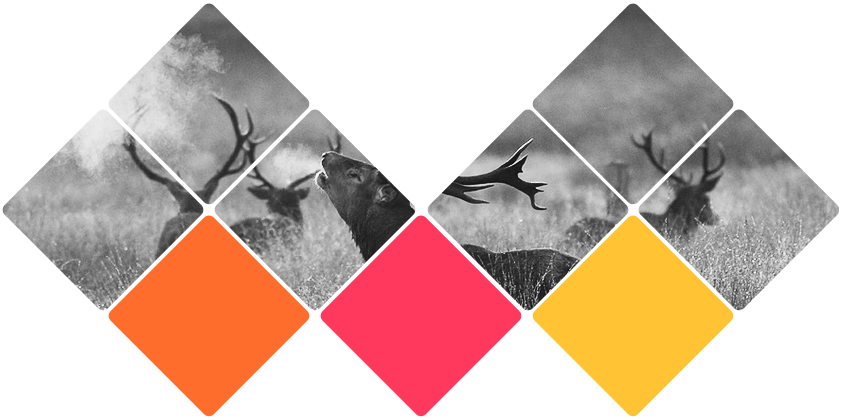
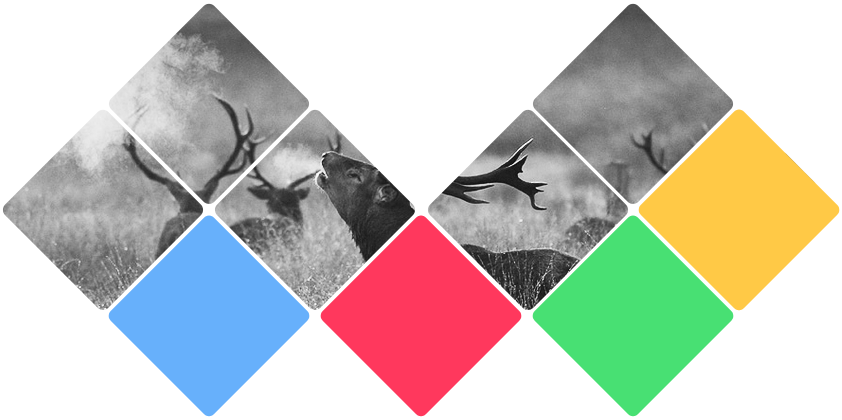
'add'

Changed region(s): [[0.6176, 0.2476, 1.0, 0.9905], [0.1235, 0.4952, 0.3705, 0.9905]]

diff --git a/public/css/widget/square/square.css b/public/css/widget/square/square.css
@@ -1,1 +1,1 @@
-.m-home_square{position:relative;width:844px;height:464px;margin:40px auto}.m-home_square .u-logo{width:158px;height:116px;margin:0 auto;background:url(../../../images/home_logo.png) no-repeat center center}.m-home_square .u-squares{position:absolute;width:844px;height:417px;display:table;left:0;top:40px;background:url(../../../images/square.png) no-repeat left top}.m-home_square .u-squares .u-square_item{position:absolute;width:147px;display:table-cell;vertical-align:middle;height:146px;border-radius:6px;transform:rotate(45deg);-webkit-transform:rotate(45deg);-moz-transform:rotate(45deg);-ms-transform:rotate(45deg);-webkit-transition:background 1s;-moz-transition:background 1s;-ms-transition:background 1s}.m-home_square .u-squares .u-square_item .s-wrap{display:block;width:100%;height:100%;background:rgba(0,0,0,.5);border-radius:6px;transition:background 1s}.m-home_square .u-squares .u-square_item a{text-decoration:none}.m-home_square .u-squares .u-square_item:hover{background:rgba(0,0,0,1)}.m-home_square .u-squares .u-square_item .u-title{transform:rotate(-45deg);-webkit-transform:rotate(-45deg);-moz-transform:rotate(-45deg);-ms-transform:rotate(-45deg);width:100%;position:absolute;top:55px;text-align:center}.m-home_square .u-squares .u-square_item span,.m-home_square .u-squares .u-square_item a{display:block;line-height:16px;color:#fff;font-size:16px;font-family:"microsoft yahei";cursor:pointer}.m-home_square .u-squares .u-square_item:nth-child(1){left:30px;top:136px}.m-home_square .u-squares .u-square_item:nth-child(2){left:134px;top:31px}.m-home_square .u-squares .u-square_item:nth-child(3){left:242px;top:138px}.m-home_square .u-squares .u-square_item:nth-child(4){left:454px;top:138px}.m-home_square .u-squares .u-square_item:nth-child(5){left:559px;top:31px}.m-home_square .u-squares .u-square_item:nth-child(6){right:31px;top:136px}.m-home_square .u-squares .u-square_item:nth-child(7){left:348px;top:243px}.m-home_square .u-squares .u-square_item:nth-child(7) a{background:0}.m-home_square .u-squares .u-square_item:nth-child(7) .u-title{top:67px}
+.m-home_square{position:relative;width:844px;height:464px;margin:40px auto}.m-home_square .u-logo{width:158px;height:116px;margin:0 auto;background:url(../../../images/home_logo.png) no-repeat center center}.m-home_square .u-squares{position:absolute;width:844px;height:417px;display:table;left:0;top:40px;background:url(../../../images/square.png) no-repeat left top}.m-home_square .u-squares .u-square_item{position:absolute;width:147px;display:table-cell;vertical-align:middle;height:146px;border-radius:6px;transform:rotate(45deg);-webkit-transform:rotate(45deg);-moz-transform:rotate(45deg);-ms-transform:rotate(45deg);-webkit-transition:background 1s;-moz-transition:background 1s;-ms-transition:background 1s}.m-home_square .u-squares .u-square_item .s-wrap{display:block;width:100%;height:100%;background:rgba(0,0,0,.5);border-radius:6px;transition:background 1s}.m-home_square .u-squares .u-square_item a{text-decoration:none}.m-home_square .u-squares .u-square_item:hover{background:rgba(0,0,0,1)}.m-home_square .u-squares .u-square_item .u-title{transform:rotate(-45deg);-webkit-transform:rotate(-45deg);-moz-transform:rotate(-45deg);-ms-transform:rotate(-45deg);width:100%;position:absolute;top:55px;text-align:center}.m-home_square .u-squares .u-square_item span,.m-home_square .u-squares .u-square_item a{display:block;line-height:16px;color:#fff;font-size:16px;font-family:"microsoft yahei";cursor:pointer}.m-home_square .u-squares .u-square_item:nth-child(1){left:30px;top:136px}.m-home_square .u-squares .u-square_item:nth-child(2){left:134px;top:31px}.m-home_square .u-squares .u-square_item:nth-child(3){left:242px;top:138px}.m-home_square .u-squares .u-square_item:nth-child(4){left:454px;top:138px}.m-home_square .u-squares .u-square_item:nth-child(5){left:559px;top:31px}.m-home_square .u-squares .u-square_item:nth-child(6){left:348px;top:243px}.m-home_square .u-squares .u-square_item:nth-child(6) a{background:0}.m-home_square .u-squares .u-square_item:nth-child(6) .u-title{top:67px}

diff --git a/public/js/template/photos/photos.js b/public/js/template/photos/photos.js
@@ -1,1 +1,37 @@
-require.config({baseUrl:"public/js/lib",shim:{slim_box:["jquery"],waterfall:["jquery"]},paths:{jquery:"jquery",port:"../template/photos/port",photos_list:"../widget/photos_list/photos_list",go_top:"../widget/go_top/go_top",load_img:"../widget/photos_list/load_img",underscore:"underscore",login_box:"../widget/login-register-case/login-register-case",slim_box:"../widget/photos_list/slimBox",waterfall:"../widget/photos_list/jquery.waterfall",praise:"../widget/js_widget/praise"}}),define(["photos_list","go_top","load_img","login_box","praise"],function(){function A(){$(".js-login_box").css("display","block")}function B(){$(".js-login_box").css("display","none")}console.log("photos init"),$(".js-open_login_box").on("click",A),$(".js-close_login_box, .js-login_box").on("click",B)});
+/**
+ * Created by redrock on 2015/2/1.
+ */
+//配置require.config
+require.config({
+    baseUrl: "../public/js/lib",
+    shim: {
+        slim_box: [ "jquery" ],
+        waterfall: [ "jquery" ]
+    },
+    paths: {
+        jquery: "jquery",
+        port: "../template/photos/port",
+        photos_list: "../widget/photos_list/photos_list",
+        go_top: "../widget/go_top/go_top",
+        load_img: "../widget/photos_list/load_img",
+        underscore: "underscore",
+        login_box: "../widget/login-register-case/login-register-case",
+        slim_box: "../widget/photos_list/slimBox",
+        waterfall: "../widget/photos_list/jquery.waterfall",
+        praise: "../widget/js_widget/praise",
+        footer: "../widget/footer/footer"
+    }
+}), //加载依赖项
+define([ "photos_list", "go_top", "load_img", "login_box", "praise", "footer" ], function() {
+    //关闭登陆框
+    /*----------------------事件处理函数--------------------*/
+    function openBox() {
+        $(".js-login_box").css("display", "block");
+    }
+    function closeBox() {
+        $(".js-login_box").css("display", "none");
+    }
+    console.log("photos init"), /*----------------------打开与关闭登陆框-----------------*/
+    $(".js-open_login_box").on("click", openBox), //打开登陆框
+    $(".js-close_login_box, .js-login_box").on("click", closeBox);
+});

diff --git a/public/js/template/litera_sub/litera_sub.js b/public/js/template/litera_sub/litera_sub.js
@@ -1,1 +1,31 @@
-require.config({baseUrl:"public/js/lib",shim:{underscore:{exports:"_"},bdshare:["share"]},paths:{jquery:"jquery",port:"../template/litera_sub/port",litera_content:"../widget/litera_content/litera_content",litera_comment:"../widget/litera_comment/litera_comment",go_top:"../widget/go_top/go_top",bdshare:"../widget/bdshare/bdshare",share:"../widget/bdshare/share",comment:"../widget/comment/comment",stop_copy:"../widget/js_widget/stopCopy"}}),define(["jquery","litera_content","litera_comment","go_top","share","bdshare","comment","stop_copy"],function(A){A(function(){A(".js-open_login_box").on("click",function(){location.href="/login-register"})})});
+/**
+ * Created by redrock on 2015/1/31.
+ */
+require.config({
+    baseUrl: "public/js/lib",
+    shim: {
+        underscore: {
+            exports: "_"
+        },
+        bdshare: [ "share" ]
+    },
+    paths: {
+        jquery: "jquery",
+        port: "../template/litera_sub/port",
+        litera_content: "../widget/litera_content/litera_content",
+        litera_comment: "../widget/litera_comment/litera_comment",
+        go_top: "../widget/go_top/go_top",
+        bdshare: "../widget/bdshare/bdshare",
+        share: "../widget/bdshare/share",
+        comment: "../widget/comment/comment",
+        stop_copy: "../widget/js_widget/stopCopy",
+        footer: "../widget/footer/footer"
+    }
+}), //加载依赖项
+define([ "jquery", "litera_content", "litera_comment", "go_top", "share", "bdshare", "comment", "stop_copy", "footer" ], function($) {
+    $(function() {
+        $(".js-open_login_box").on("click", function() {
+            location.href = "/login-register";
+        });
+    });
+});

diff --git a/public/js/template/microm_sub/microm_sub.js b/public/js/template/microm_sub/microm_sub.js
@@ -1,1 +1,28 @@
-require.config({baseUrl:"public/js/lib",shim:{underscore:{exports:"_"},bdshare:["share"]},paths:{jquery:"jquery",port:"../template/microm_sub/port",microm_play:"../widget/microm_play/microm_play",microm_comment:"../widget/microm_comment/microm_comment",go_top:"../widget/go_top/go_top",login_box:"../widget/login_box/login_box",microm_intro:"../widget/microm_intro/microm_intro",bdshare:"../widget/bdshare/bdshare",share:"../widget/bdshare/share",comment:"../widget/comment/comment"}}),define(["microm_play","microm_comment","go_top","login_box","microm_intro","share","bdshare","comment"],function(){console.log("microm_sub init")});
+/**
+ * Created by redrock on 2015/1/31.
+ */
+require.config({
+    baseUrl: "public/js/lib",
+    shim: {
+        underscore: {
+            exports: "_"
+        },
+        bdshare: [ "share" ]
+    },
+    paths: {
+        jquery: "jquery",
+        port: "../template/microm_sub/port",
+        microm_play: "../widget/microm_play/microm_play",
+        microm_comment: "../widget/microm_comment/microm_comment",
+        go_top: "../widget/go_top/go_top",
+        login_box: "../widget/login_box/login_box",
+        microm_intro: "../widget/microm_intro/microm_intro",
+        bdshare: "../widget/bdshare/bdshare",
+        share: "../widget/bdshare/share",
+        comment: "../widget/comment/comment",
+        footer: "../widget/footer/footer"
+    }
+}), //加载依赖项
+define([ "microm_play", "microm_comment", "go_top", "login_box", "microm_intro", "share", "bdshare", "comment", "footer" ], function() {
+    console.log("microm_sub init");
+});

diff --git a/public/js/template/literatrue/literatrue.js b/public/js/template/literatrue/literatrue.js
@@ -1,1 +1,32 @@
-require.config({baseUrl:"public/js/lib",shim:{underscore:{exports:"_"},"jquery.sliderBox":["jquery"]},paths:{jquery:"jquery",port:"../template/literatrue/port",litera_list:"../widget/litera_list/litera_list",go_top:"../widget/go_top/go_top","jquery.sliderBox":"./jquery.sliderBox",slider:"../widget/litera_recom_slider/litera_recom_slider",praise:"../widget/js_widget/praise",stop_copy:"../widget/js_widget/stopCopy"}}),define(["jquery","litera_list","go_top","slider","praise","stop_copy"],function(A){A(function(){A(".js-open_login_box").on("click",function(){location.href="/login-register"})})});
+/**
+ * Created by redrock on 2015/1/31.
+ */
+//配置require.config
+require.config({
+    baseUrl: "public/js/lib",
+    shim: {
+        underscore: {
+            exports: "_"
+        },
+        "jquery.sliderBox": [ "jquery" ]
+    },
+    paths: {
+        jquery: "jquery",
+        port: "../template/literatrue/port",
+        litera_list: "../widget/litera_list/litera_list",
+        go_top: "../widget/go_top/go_top",
+        "jquery.sliderBox": "./jquery.sliderBox",
+        slider: "../widget/litera_recom_slider/litera_recom_slider",
+        praise: "../widget/js_widget/praise",
+        //收藏
+        stop_copy: "../widget/js_widget/stopCopy",
+        footer: "../widget/footer/footer"
+    }
+}), //加载依赖项
+define([ "jquery", "litera_list", "go_top", "slider", "praise", "stop_copy", "footer" ], function($) {
+    $(function() {
+        $(".js-open_login_box").on("click", function() {
+            location.href = "/login-register";
+        });
+    });
+});

diff --git a/public/js/template/bkmv_sub/bkmv_sub.js b/public/js/template/bkmv_sub/bkmv_sub.js
@@ -1,1 +1,30 @@
-require.config({baseUrl:"public/js/lib",shim:{underscore:{exports:"_"},bdshare:["share"]},paths:{jquery:"jquery",port:"../template/bkmv_sub/port",bkmv_sub_comment:"../widget/bkmv_sub_comment/bkmv_sub_comment",go_top:"../widget/go_top/go_top",bdshare:"../widget/bdshare/bdshare",share:"../widget/bdshare/share",comment:"../widget/comment/comment"}}),define(["jquery","bkmv_sub_comment","go_top","share","bdshare","comment"],function(A){A(function(){A(".js-open_login_box").on("click",function(){location.href="/login-register"})})});
+/**
+ * Created by redrock on 2015/2/14.
+ */
+//配置require.config
+require.config({
+    baseUrl: "public/js/lib",
+    shim: {
+        underscore: {
+            exports: "_"
+        },
+        bdshare: [ "share" ]
+    },
+    paths: {
+        jquery: "jquery",
+        port: "../template/bkmv_sub/port",
+        bkmv_sub_comment: "../widget/bkmv_sub_comment/bkmv_sub_comment",
+        go_top: "../widget/go_top/go_top",
+        bdshare: "../widget/bdshare/bdshare",
+        share: "../widget/bdshare/share",
+        comment: "../widget/comment/comment",
+        footer: "../widget/footer/footer"
+    }
+}), //加载依赖项
+define([ "jquery", "bkmv_sub_comment", "go_top", "share", "bdshare", "comment", "footer" ], function($) {
+    $(function() {
+        $(".js-open_login_box").on("click", function() {
+            location.href = "/login-register";
+        });
+    });
+});

diff --git a/public/js/template/micromovie/micromovie.js b/public/js/template/micromovie/micromovie.js
@@ -1,1 +1,29 @@
-require.config({baseUrl:"public/js/lib",shim:{underscore:{exports:"_"}},paths:{jquery:"jquery",port:"../template/micromovie/port",microm_list:"../widget/microm_list/microm_list",microm_topic:"../widget/microm_topic/microm_topic",go_top:"../widget/go_top/go_top",praise:"../widget/js_widget/praise"}}),define(["jquery","microm_list","go_top","praise"],function(A){console.log("literatrue init"),A(function(){A(".js-open_login_box").on("click",function(){location.href="/login-register"})})});
+/**
+ * Created by redrock on 2015/1/31.
+ */
+//配置require.config
+require.config({
+    baseUrl: "public/js/lib",
+    shim: {
+        underscore: {
+            exports: "_"
+        }
+    },
+    paths: {
+        jquery: "jquery",
+        port: "../template/micromovie/port",
+        microm_list: "../widget/microm_list/microm_list",
+        microm_topic: "../widget/microm_topic/microm_topic",
+        go_top: "../widget/go_top/go_top",
+        praise: "../widget/js_widget/praise",
+        //点赞
+        footer: "../widget/footer/footer"
+    }
+}), //加载依赖项
+define([ "jquery", "microm_list", "go_top", "praise", "footer" ], function($) {
+    console.log("literatrue init"), $(function() {
+        $(".js-open_login_box").on("click", function() {
+            location.href = "/login-register";
+        });
+    });
+});

diff --git a/app/views/widget/square/square.css b/app/views/widget/square/square.css
@@ -93,18 +93,22 @@
     top: 31px;
 }
 /*个人中心*/
-.m-home_square .u-squares .u-square_item:nth-child(6){
-    right: 31px;
-    top: 136px;
-}
+/*.m-home_square .u-squares .u-square_item:nth-child(6){*/
+    /*right: 31px;*/
+    /*top: 138px;*/
+    /*background: #48e073;*/
+/*}*/
+/*.m-home_square .u-squares .u-square_item:nth-child(6) .s-wrap{*/
+    /*background: #48e073;*/
+/*}*/
 /*登陆注册*/
-.m-home_square .u-squares .u-square_item:nth-child(7){
+.m-home_square .u-squares .u-square_item:nth-child(6){
     left: 348px;
     top: 243px;
 }
-.m-home_square .u-squares .u-square_item:nth-child(7) a{
+.m-home_square .u-squares .u-square_item:nth-child(6) a{
     background: none;
 }
-.m-home_square .u-squares .u-square_item:nth-child(7) .u-title{
+.m-home_square .u-squares .u-square_item:nth-child(6) .u-title{
     top: 67px;
 }

diff --git a/app/views/template/photos/photos.js b/app/views/template/photos/photos.js
@@ -18,11 +18,12 @@ require.config({
         login_box : '../widget/login-register-case/login-register-case',
         slim_box : '../widget/photos_list/slimBox',
         waterfall : '../widget/photos_list/jquery.waterfall',
-        praise : '../widget/js_widget/praise'
+        praise : '../widget/js_widget/praise',
+        footer : '../widget/footer/footer'
     }
 });
 //加载依赖项
-define(['photos_list', 'go_top', 'load_img', 'login_box', 'praise'], function(){
+define(['photos_list', 'go_top', 'load_img', 'login_box', 'praise', 'footer'], function(){
     console.log('photos init');
     /*----------------------打开与关闭登陆框-----------------*/
     $('.js-open_login_box').on('click', openBox);                //打开登陆框

diff --git a/app/views/template/litera_sub/litera_sub.js b/app/views/template/litera_sub/litera_sub.js
@@ -18,12 +18,13 @@ require.config({
         bdshare : '../widget/bdshare/bdshare',
         share : '../widget/bdshare/share',
         comment : '../widget/comment/comment',
-        stop_copy : '../widget/js_widget/stopCopy'
+        stop_copy : '../widget/js_widget/stopCopy',
+        footer : '../widget/footer/footer'
     }
 });
 
 //加载依赖项
-define(['jquery','litera_content','litera_comment','go_top', 'share', 'bdshare', 'comment', 'stop_copy'], function($){
+define(['jquery','litera_content','litera_comment','go_top', 'share', 'bdshare', 'comment', 'stop_copy', 'footer'], function($){
     $(function(){
         $('.js-open_login_box').on('click', function(){
             location.href = '/login-register';

diff --git a/app/views/template/literatrue/literatrue.js b/app/views/template/literatrue/literatrue.js
@@ -18,12 +18,13 @@ require.config({
         'jquery.sliderBox' : './jquery.sliderBox',
         'slider' : '../widget/litera_recom_slider/litera_recom_slider',
         'praise' : '../widget/js_widget/praise' ,  //收藏
-        'stop_copy' : '../widget/js_widget/stopCopy'
+        'stop_copy' : '../widget/js_widget/stopCopy',
+        'footer' : '../widget/footer/footer'
     }
 });
 
 //加载依赖项
-define(['jquery','litera_list', 'go_top', 'slider', 'praise', 'stop_copy'], function($){
+define(['jquery','litera_list', 'go_top', 'slider', 'praise', 'stop_copy', 'footer'], function($){
     $(function(){
         $('.js-open_login_box').on('click', function(){
             location.href = '/login-register';

diff --git a/app/views/template/original/original.js b/app/views/template/original/original.js
@@ -14,11 +14,12 @@ require.config({
         go_top : '../widget/go_top/go_top',
         login_box : '../widget/login-register-case/login-register-case',
         ori_model : '../widget/ori_model/ori_model',
-        underscore : 'underscore'
+        underscore : 'underscore',
+        footer : '../widget/footer/footer'
     }
 });
 //加载依赖项
-define(['go_top', 'login_box', 'ori_model', 'underscore'], function(){
+define(['go_top', 'login_box', 'ori_model', 'underscore', 'footer'], function(){
     $(function(){
         /*----------------------打开与关闭登陆框-----------------*/
         $('.js-open_login_box').on('click', openBox);                //打开登陆框
